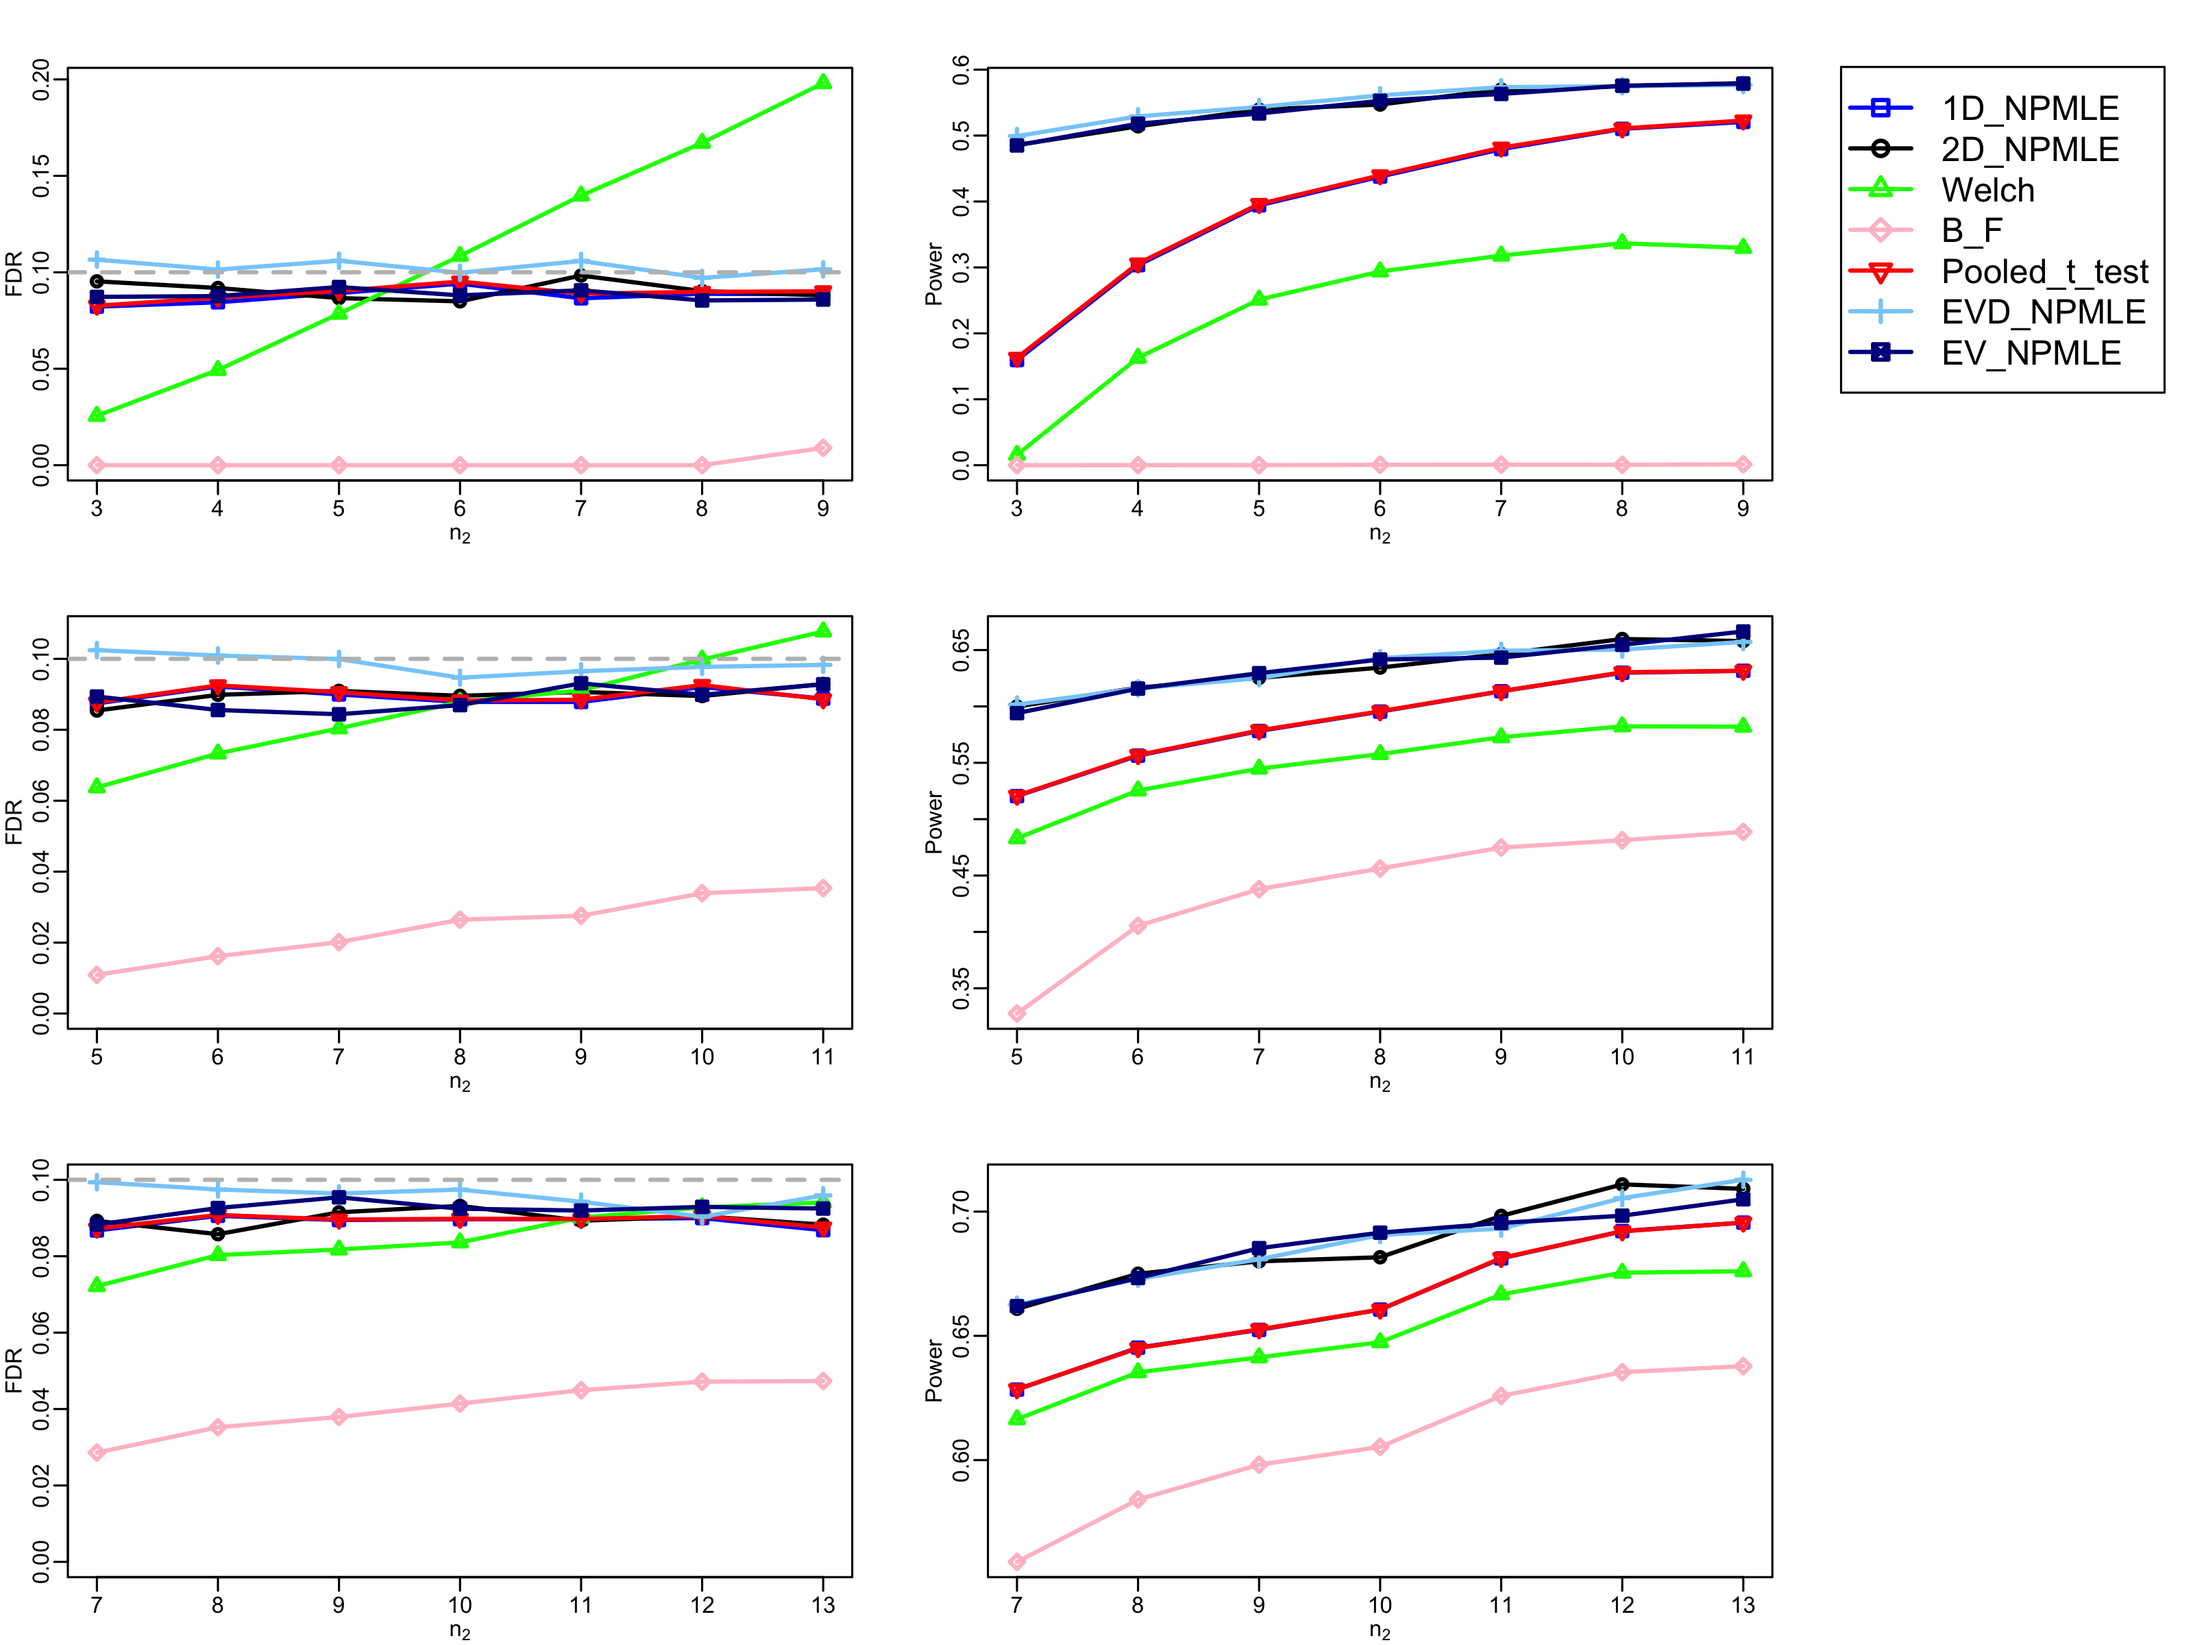
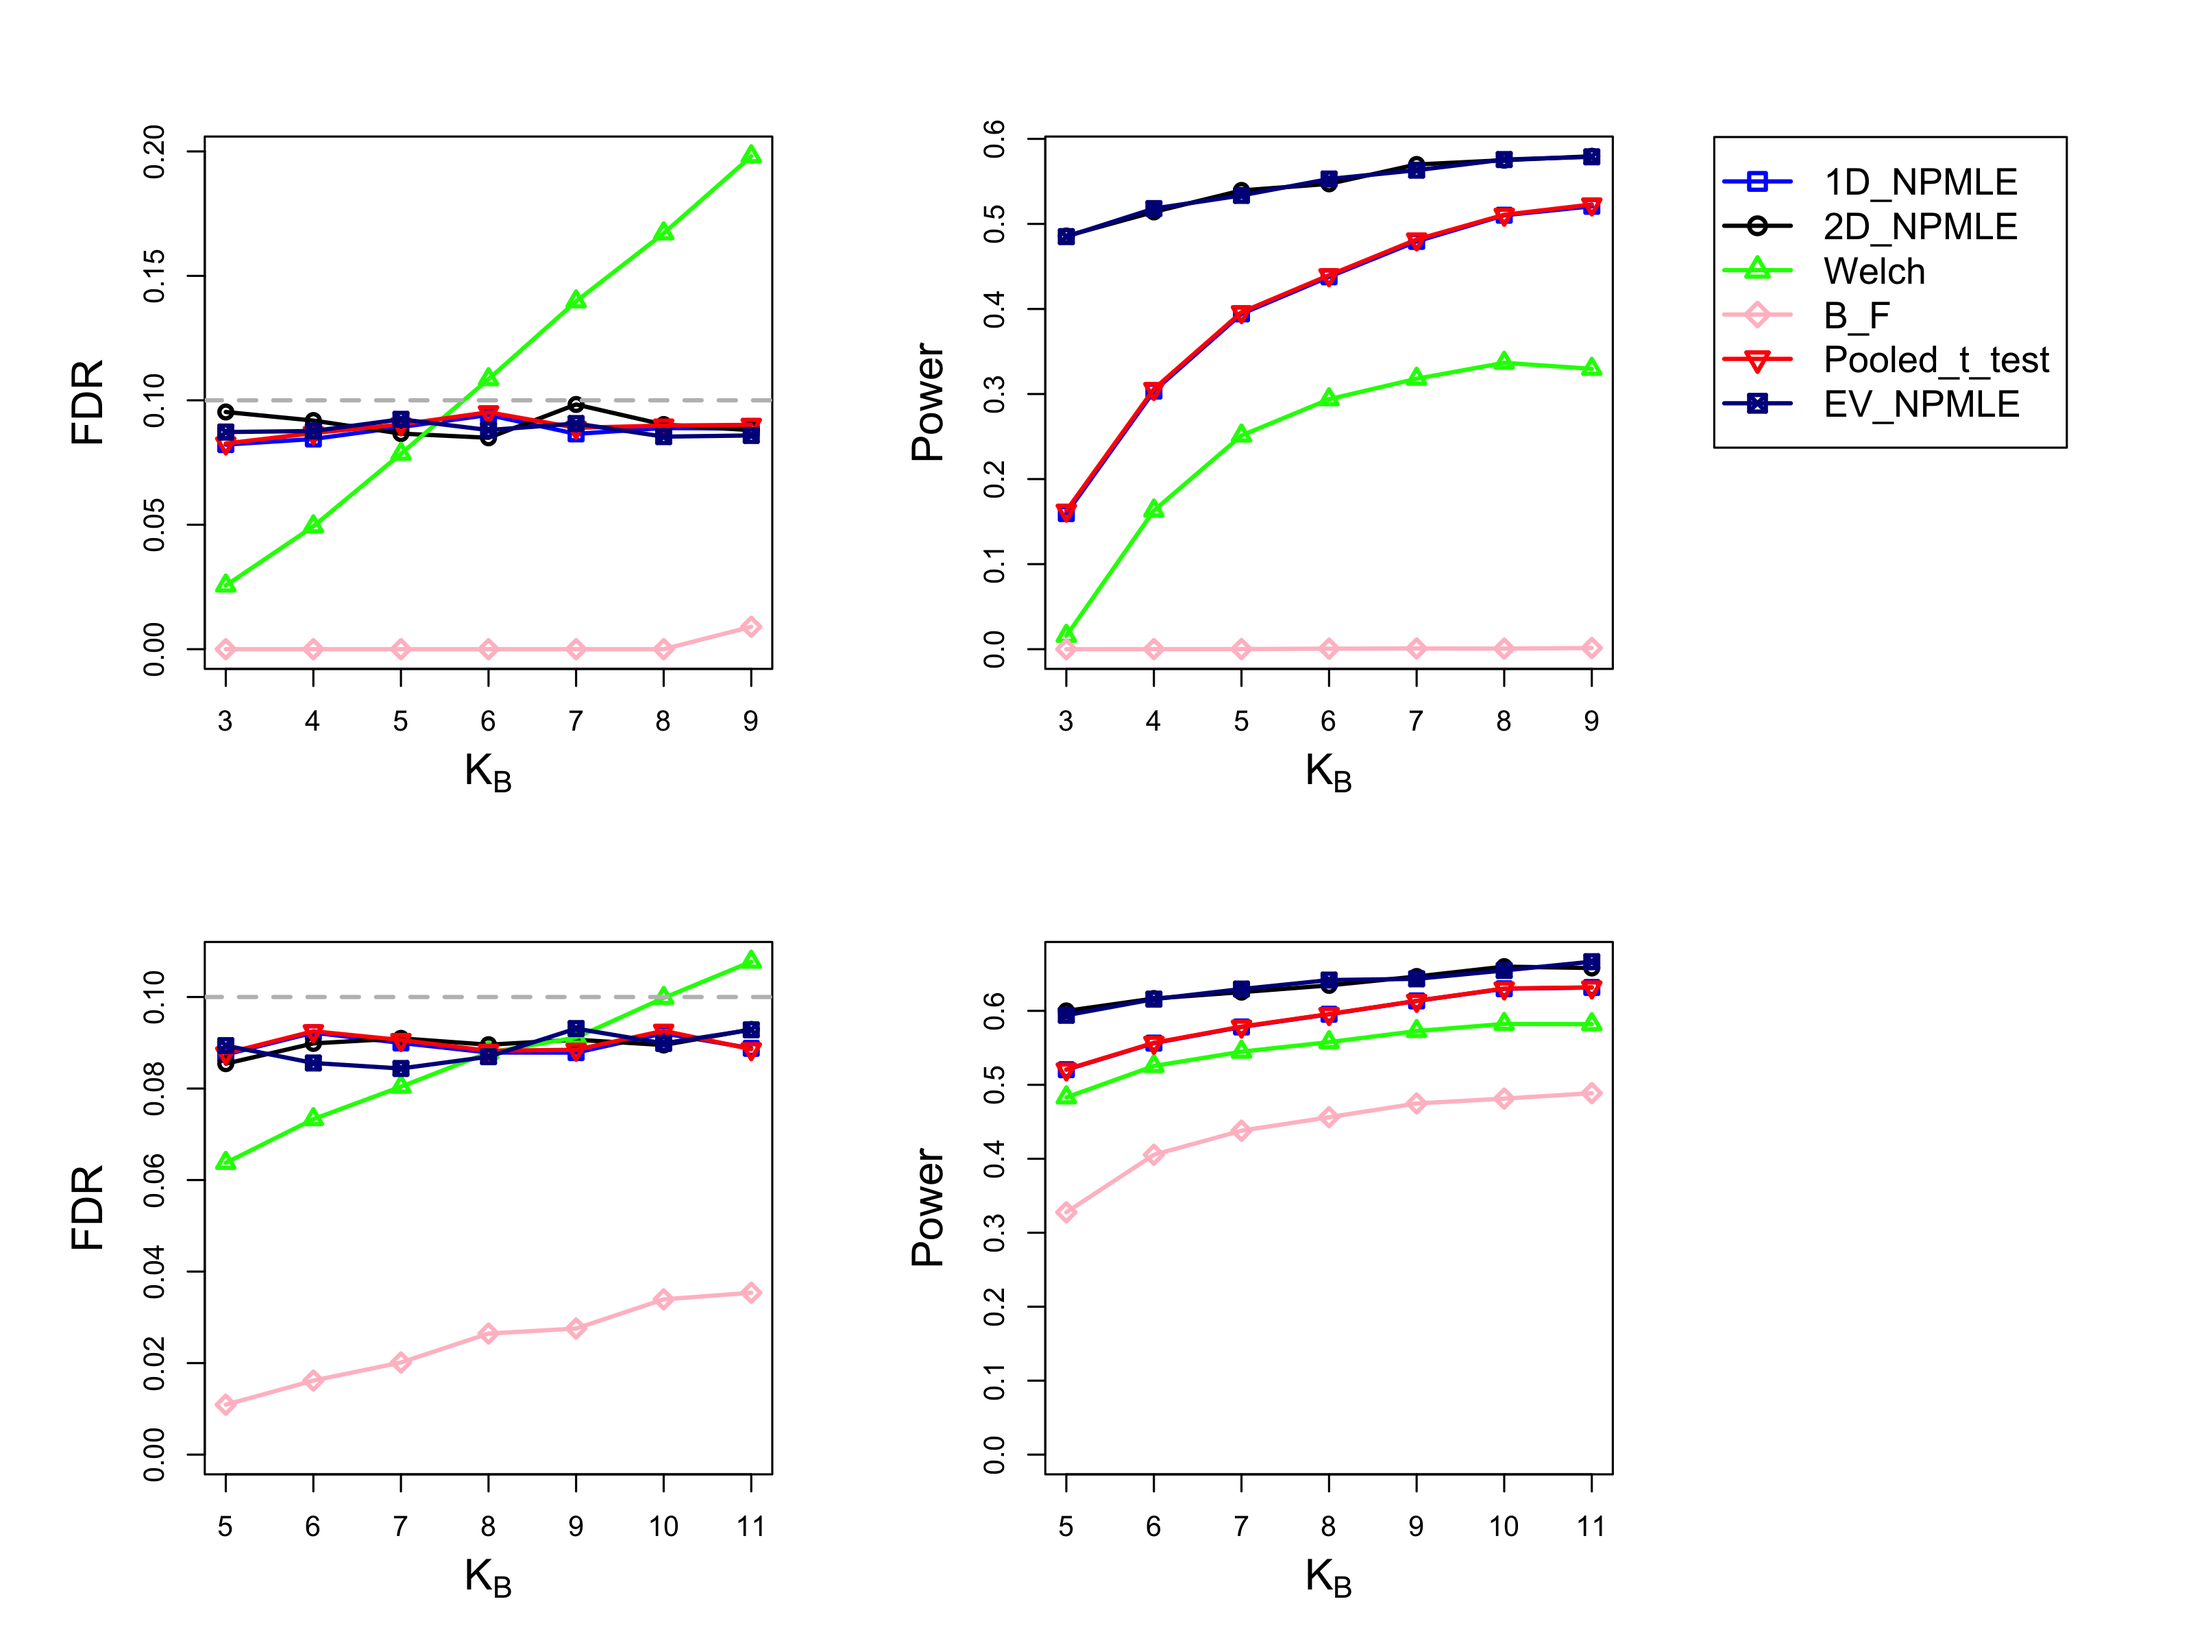
update simulation results and readme

diff --git a/README.md b/README.md
@@ -1,14 +1,15 @@
 # EPBayes
 
 ## Simulation
-Simulation scripts for EPBayes (1D_NPMLE, 2D_NPMLE), Welch Approximation, Pooled t-test, Beherens-Fisher, Equal-variance NPMLE
+Simulation scripts for 1D NPMLE-based empirical partially Bayes (1D-NPMLE), 2D NPMLE-based empirical partially Bayes (2D-NPMLE), Welch Approximation (Welch), Pooled t-test (t-test), Beherens-Fisher test (B-F), Equal-variance NPMLE-based empirical partially Bayes (EV-NPMLE).
 
 ## Real Dataset
-1. Applying All Algorithms (1D_NPMLE, 2D_NPMLE, Welch Approximation, Pooled t-test) on Hedenfalk
-2. Incorporating weight information based on (Voom, VoombyGroup) with All Algorithms (1D_NPMLE, 2D_NPMLE, Welch Approximation, Pooled t-test) on PBMC1
+1. Applying all algorithms (1D-NPMLE, 2D-NPMLE, Welch, t-test, B-F, EV-NPMLE) on Hedenfalk
+2. Incorporating weight information estimated by voom and voomBygroup with all algorithms on PBMC1
 
 ## Data and Graphs
-1. 2D Distribution Estimation based on Real Datasets (Hedenfalk, PBMC1) and Visualization
-2. Comparison between All Algorithms (1D_NPMLE, 2D_NPMLE, Welch Approximation, Pooled t-test, Beherens-Fisher, Equal-variance NPMLE) concerning Power and FDR for (n1 $in$ (3,4,5,6,7), n2 = (n1: n1+6))
+1. Distributions (G(\sigma^2_1/\sigma^2_2), H(\sigma^2_1, \sigma^2_2)) estimated based on real datasets (Hedenfalk, PBMC1) and visualization
+2. Comparison between all algorithms concerning Power and FDR for (n1 $in$ (3,4,5,6,7), n2 = (n1: n1+6)) in equal-variance scenarios and unqeual-vairance scenarios.
+    * Visualizations of distributions are generated via visualizer.Rmd and unequal_visualizer.Rmd
     * Separated Data contains simulation results for each of the algorithms
-    * Full Data contains the united simulation results processed via Data_organizer.R
+    * Full Data contains the combined simulation results processed via Data_organizer.R
